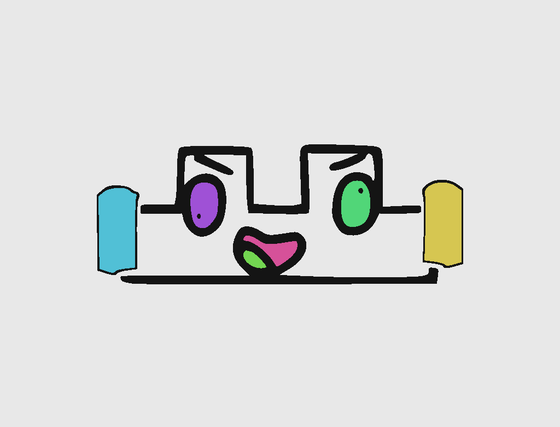
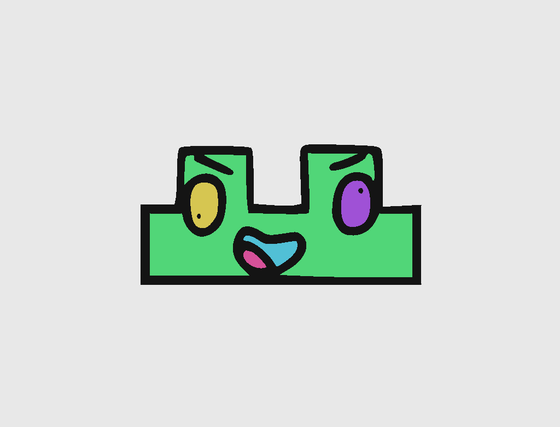
Close ㅛ with a plain line where the cans hide its edge
The spray cans have no black line, so they vanished from the stroke mask
and the letter's two arms ended in mid-air. Outlining the cans fixed the
opening but added shapes the user did not want: the letter is what should
be drawn, not its props.

The cans sit beside the body and hide the vertical edge: the black there
stops in two horizontal runs (y 113-117 and y 152-156) that never meet.
So instead of drawing the object, draw the missing edge. Each exposed
grey object (neutral, >= 200px, reachable from the page border without
crossing black) marks a side of the body; the existing stroke ends within
a 7px band of that side are found, a 5px bar joins them (the body stroke
width in the source art), and the rounded overhang that used to run under
the object is trimmed, otherwise the corner keeps the old tip as a hook.

That is 344px drawn and 116px trimmed in ㅛ, and public/coreano/yo/** is
the only output that changes; Latin artifacts stay byte-identical. The
body is now one closed bucket region (6.7% of the canvas) instead of
leaking out the side. Grey enclosed by black is still internal shading
(eye of ㅗ, lens of ㅟ) and stays out.

Recorded in docs/decisoes.md D16, §8.2 and §8.3.

Changed region(s): [[0.1518, 0.3349, 0.85, 0.6698]]

diff --git a/docs/decisoes.md b/docs/decisoes.md
@@ -202,7 +202,7 @@ O pipeline nasceu para as 26 latinas, que já vêm em traço preto. Para outras 
 
 - **Recorte por posse de componente**, não por célula geométrica: cada componente conexo da folha pertence a uma letra; adereços soltos (chapéu, texto "WAND", câmera, latas de spray) são agrupados por vizinhança e o grupo inteiro vai para a letra cuja caixa dilatada em 24 px cobre mais área dele. Célula por ponto médio cortava adereço ao meio (a asa do `ㅂ`, o "W" do "WAND").
 - **Traço = preto neutro**: o contorno é `#000000`/`#010101` e o preenchimento mais escuro começa em `#1a1621`, então **canal máximo ≤ 24** separa os dois com 9 níveis de folga. Pupilas, sobrancelhas e dentes continuam sólidos; corpos escuros (o sol `ㅇ`, `#1a1621`) viram contorno vazado, que é o que a criança pinta.
-- **Objeto desenhado só em cinza vira contorno gerado**, mas só se estiver **fora** de área fechada por preto: as latas do `ㅛ` não têm linha nenhuma, e sem elas as hastes da letra terminam no ar. Cinza cercado por preto é sombra interna (olho do `ㅗ`, lente do `ㅟ`) e continua fora.
+- **Objeto desenhado só em cinza não vira traço: ele tapa a borda.** As latas do `ㅛ` não têm linha nenhuma e escondem a borda vertical do corpo, então as hastes da letra terminavam no ar. O pipeline desenha a **borda que faltava**: identifica o objeto exposto (cinza neutro, área ≥ 200 px, **fora** de área fechada por preto), traça uma reta de 5 px no lado voltado para o corpo ligando as duas pontas de traço existentes, e **apara** a sobra arredondada que passava por baixo dele. Cinza cercado por preto é sombra interna (olho do `ㅗ`, lente do `ㅟ`) e continua fora; a franja de antialiasing também.
 - **Canvas uniforme** de mesma proporção das latinas (309 × 236 ↔ 329 × 251) → o resto do pipeline (`viewBox` compartilhado, 2048 × 1562, `region.png`, `thumb`) roda **sem nenhuma alteração**.
 - **Idioma é argumento**: `node scripts/build-assets.mjs [latin|coreano|all]`. Os artefatos são commitados como os latinos; CI continua sem potrace.
 - O coreano **não está na UI** ainda: `public/coreano/` existe, mas nenhuma tela o carrega. Detalhes e medições na seção 8.
@@ -448,7 +448,7 @@ O resultado preserva pupila, cílios, dentes e sobrancelhas, e transforma corpo 
 
 **O que fica de fora, de propósito:** elemento desenhado só em **valor** (cinza-claro), sem linha preta. O brilho das lentes do `ㅟ` é `#ededed` e some. Promovê-lo a traço seria errado, porque o mesmo cinza-claro é usado como **sombra dentro dos olhos** (`ㅗ`, `#c1c1c1`): viraria um anel fantasma em volta da pupila. Regra: entra linha, sai valor. É a mesma escolha que descarta os preenchimentos coloridos.
 
-**A exceção: objeto sem contorno.** As latas de spray do `ㅛ` também são só valor — mas, ao contrário da sombra do olho, estão **fora de qualquer área fechada por preto**. Sem elas as duas hastes da letra terminavam no ar e o `ㅛ` ficava aberto nas laterais. Então o pipeline ganhou um estágio: cinza neutro, com área ≥ 200 px, que seja **exposto** (alcançável da borda da página sem atravessar preto) vira **contorno gerado** — silhueta, `closing` de 2 px (as ranhuras da tampa viravam um pente) e anel de 2 px (mesma espessura do traço da letra depois do render). Cinza **cercado** por preto continua fora: é sombra interna. A franja de antialiasing também (cinza a até 2 px do preto). Na folha inteira o único objeto exposto é o par de latas do `ㅛ`: **286 px de anel**, e só `public/coreano/yo/**` muda. O bico vermelho da lata é preenchimento colorido e não entra — a lata sai como corpo liso, ligada às hastes.
+**A exceção: objeto que tapa a borda.** As latas de spray do `ㅛ` também são só valor — mas, ao contrário da sombra do olho, estão **fora de qualquer área fechada por preto** e escondem a borda vertical do corpo: as duas hastes da letra terminavam no ar e o `ㅛ` ficava aberto nas laterais. O objeto não entra no traço (o contorno gerado ao redor da lata foi rejeitado: poluía o desenho). O que entra é a **borda que faltava**: cinza neutro, com área ≥ 200 px, que seja **exposto** (alcançável da borda da página sem atravessar preto) define onde está a borda; o pipeline acha as pontas de traço existentes numa faixa de 7 px do lado voltado para o corpo, liga as duas com uma reta de 5 px (a espessura do traço da letra na fonte) e **apara** a sobra arredondada que corria por baixo do objeto — sem a apara o canto herdava a ponta antiga e virava um gancho. Cinza **cercado** por preto continua fora: é sombra interna. A franja de antialiasing também (cinza a até 2 px do preto). Na folha inteira o único objeto exposto é o par de latas do `ㅛ`: **344 px de borda desenhada e 116 px de sobra aparada**, e só `public/coreano/yo/**` muda. O corpo passa a ser uma região fechada do balde (6,7% do canvas), que antes vazava pela lateral.
 
 Recortes coloridos para conferência em `_qa/coreano/conferencia.png`; traço final em `_qa/coreano/prancha.png`.
 
@@ -460,11 +460,11 @@ Recortes coloridos para conferência em `_qa/coreano/conferencia.png`; traço fi
 | canvas do recorte | 309 × 236 (mesma proporção das latinas, 1,309:1) |
 | bbox compartilhado | 307 × 188 @ (1, 24) |
 | tinta renderizada | **2048 × 1254** (fator 6,67×), centrada em 2048 × 1562 |
-| peso de `public/coreano/` | **2,32 MB** (40 letras, 4 arquivos cada; média 59 KB) |
+| peso de `public/coreano/` | **2,30 MB** (40 letras, 4 arquivos cada; média 59 KB) |
 | paths por letra | 1 a 12 (mediana 2) |
 | regiões por letra | 4 a 20 |
 | traço extraído × original | 0,000% de tinta perdida no recorte; olhos e dentes preservados |
-| objetos em cinza (sem contorno) | latas do `ㅛ`: contorno gerado (286 px de anel no `ㅛ`); brilho da lente do `ㅟ` fica fora por ser sombra interna |
+| objetos em cinza (sem contorno) | latas do `ㅛ`: a letra é fechada com uma reta no lugar da borda que a lata escondia (344 px desenhados, 116 px de sobra aparada); brilho da lente do `ㅟ` fica fora por ser sombra interna |
 
 ### 8.4 O que muda quando o coreano entrar na UI
 
